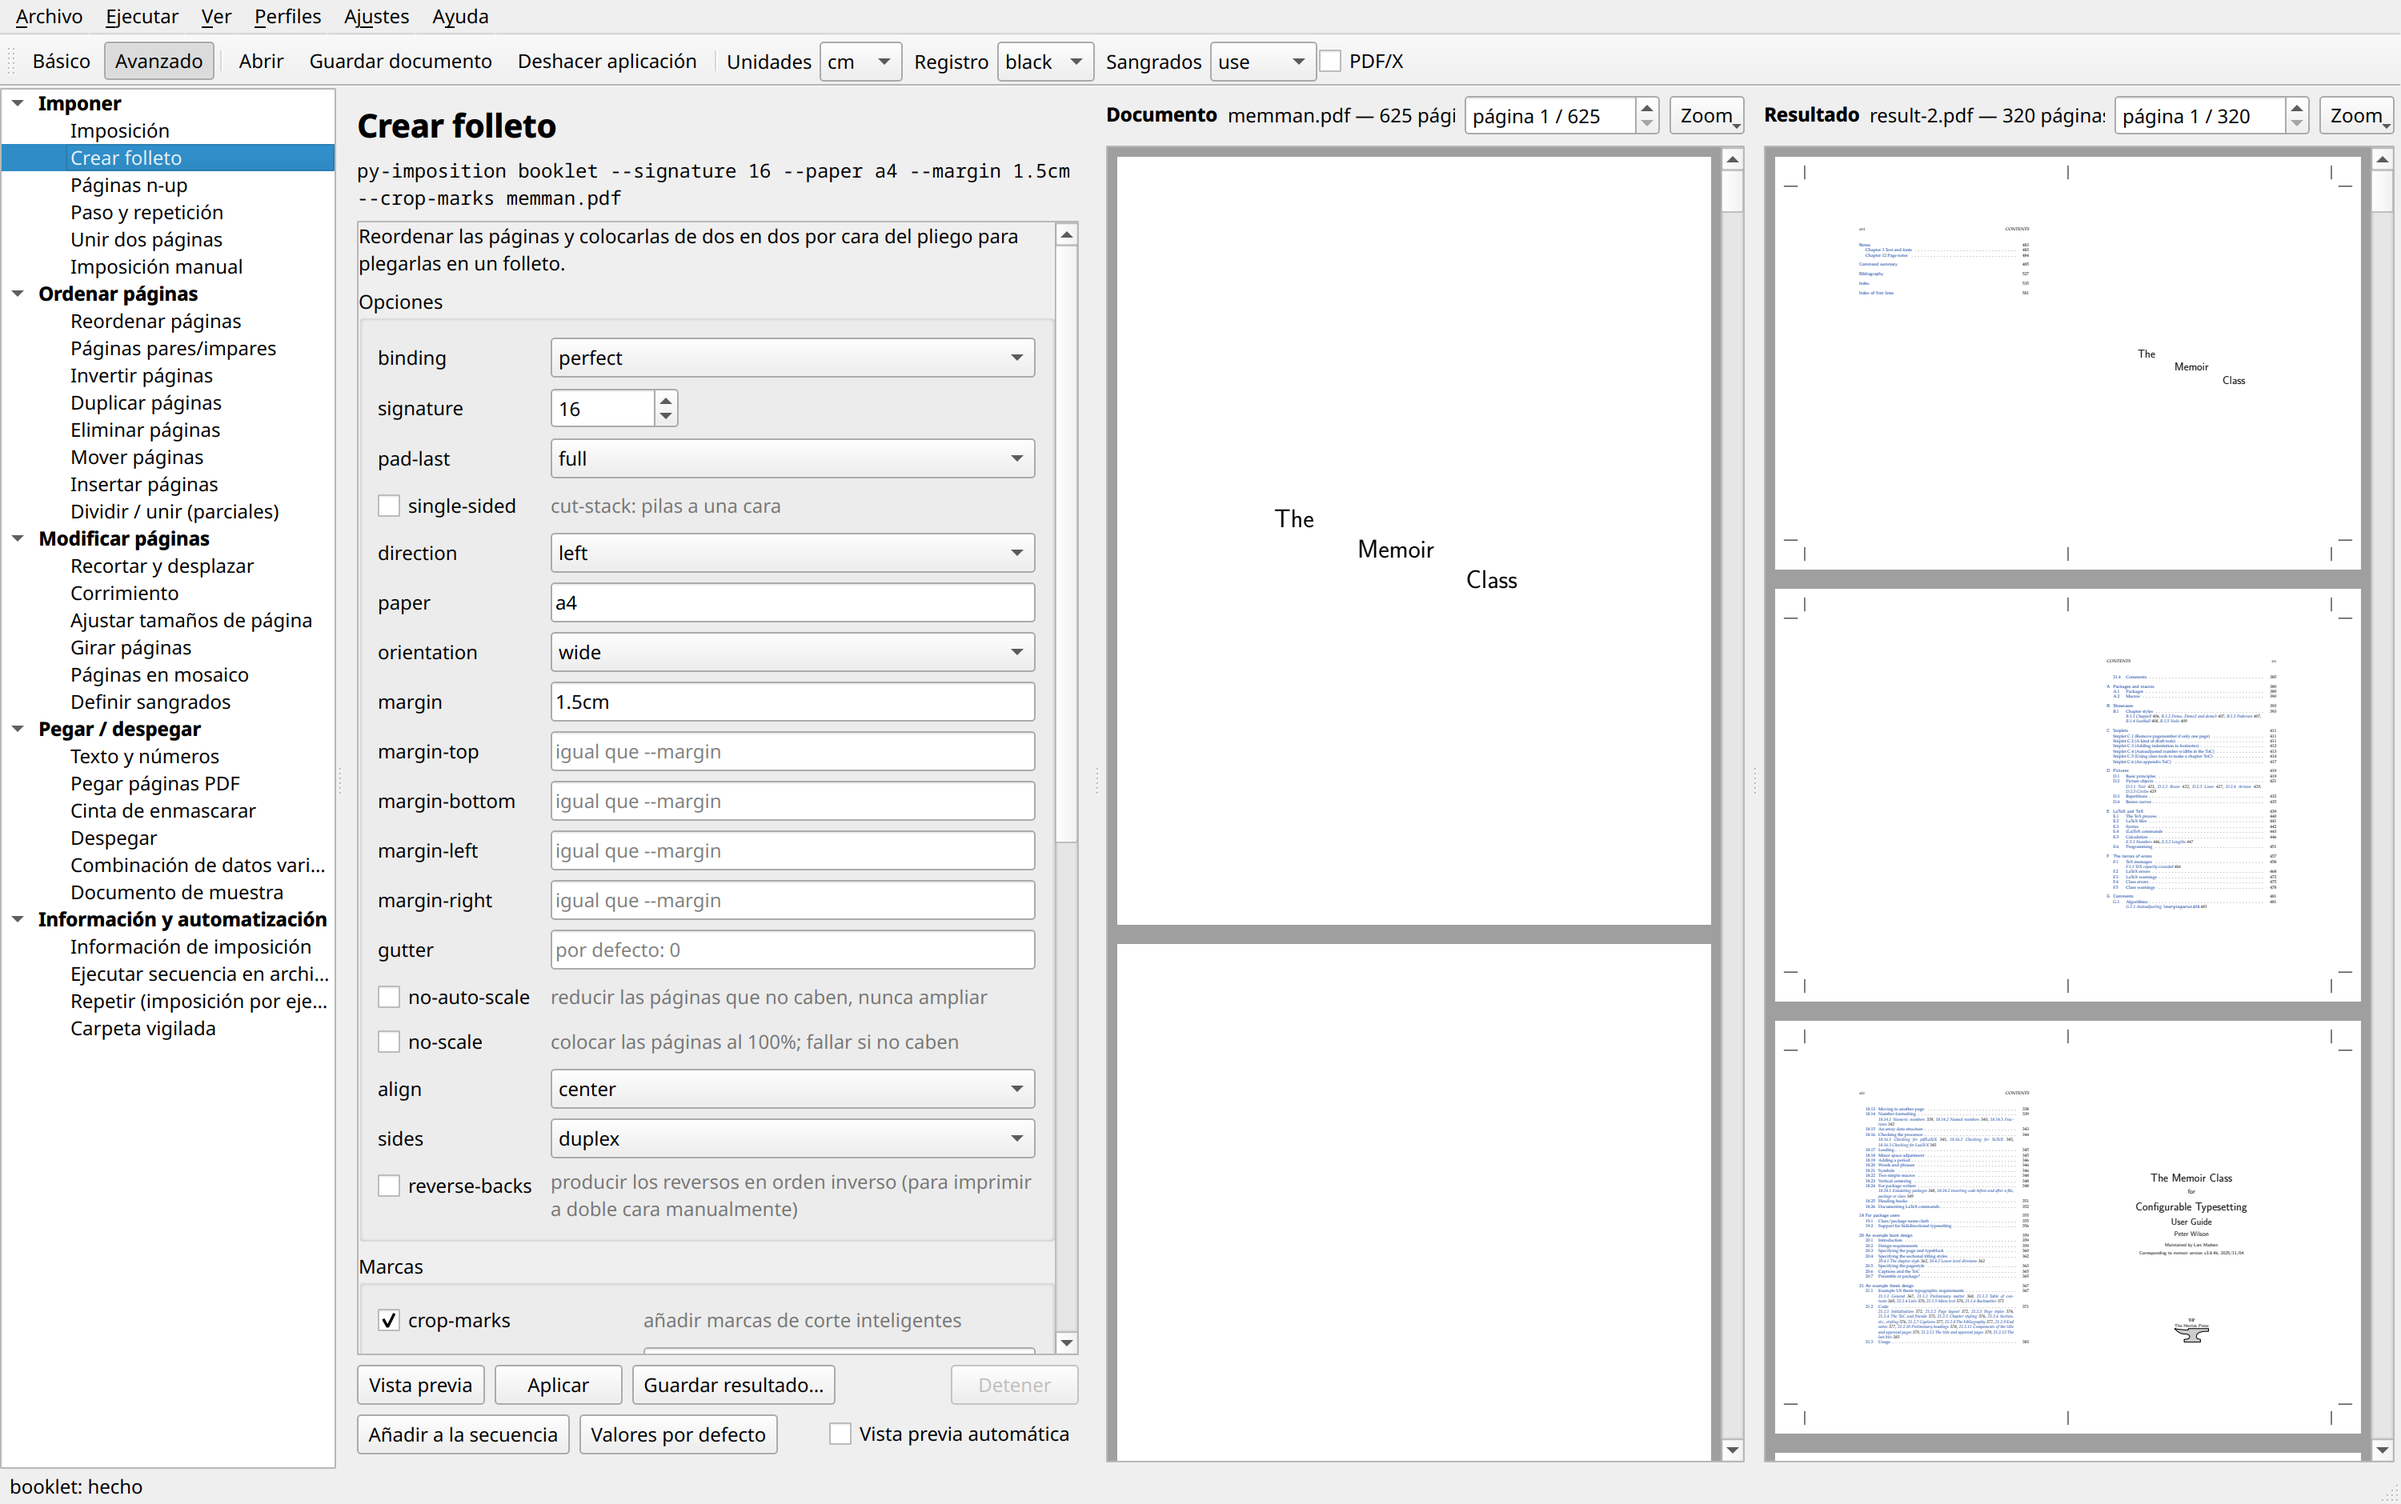
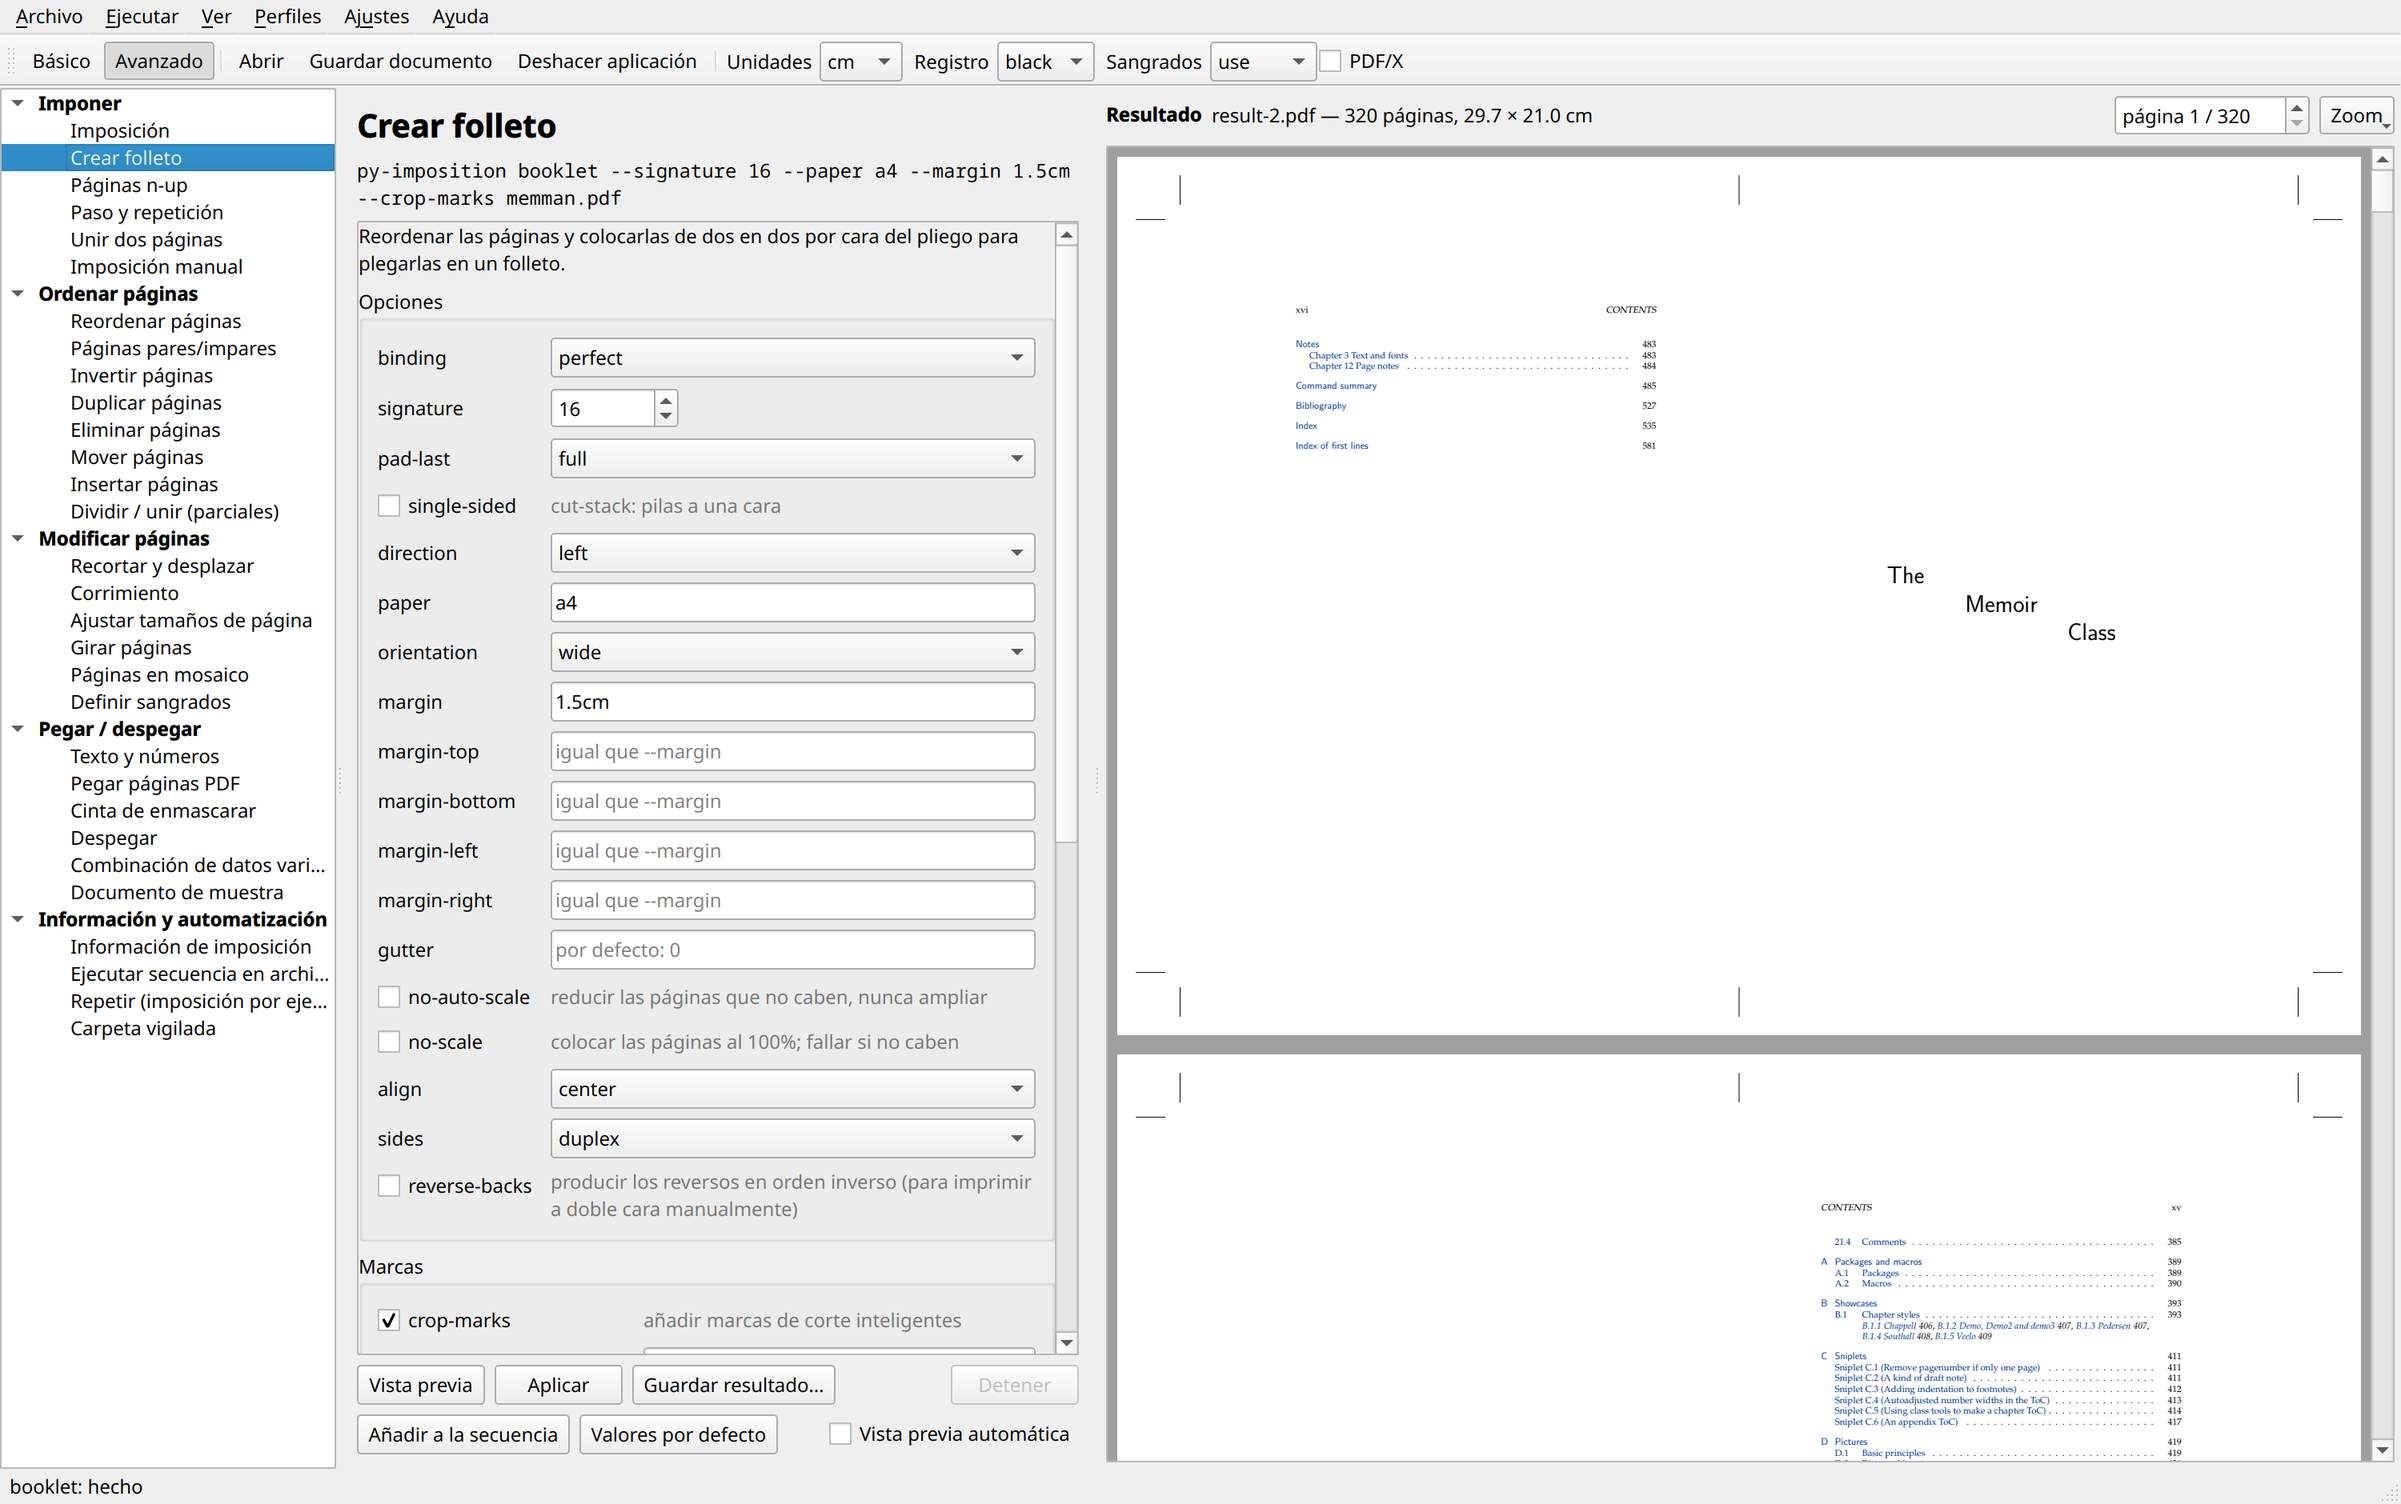
Make the original document's preview optional (v0.5.1)
View > Show the original document shows or hides the preview of the
current document beside the result. It is off by default, so the result
has the whole width, and the choice is kept in config.toml
(show_document), next to the language of the interface.

The GUI tests now use a configuration folder of their own, so they no
longer touch the user's config.toml. The README (both languages) and the
screenshots show the new default.

diff --git a/src/py_imposition/gui/window.py b/src/py_imposition/gui/window.py
@@ -561,6 +561,12 @@ class MainWindow(QMainWindow):
         m.addSeparator()
         m.addAction(QAction(tr("Copy command line"), self, triggered=self.copy_command_line))
         m = self.menuBar().addMenu(tr("&View"))
+        self.a_show_document = QAction(tr("Show the original document"), self, checkable=True)
+        self.a_show_document.setToolTip(tr("Show the document beside the result (kept in the configuration file)"))
+        self.a_show_document.setChecked(bool(config.get("show_document")))
+        self.a_show_document.toggled.connect(self.show_document)
+        m.addAction(self.a_show_document)
+        m.addSeparator()
         for d in self.docks:
             m.addAction(d.toggleViewAction())
         self.m_profiles = self.menuBar().addMenu(tr("&Profiles"))
@@ -612,6 +618,7 @@ class MainWindow(QMainWindow):
         last = self.settings.value("command", "booklet")
         self.select_command(last if last in COMMANDS else "booklet")
         self.set_mode(self.settings.value("mode", "basic"))
+        self.show_document(self.a_show_document.isChecked(), save=False)
 
     def closeEvent(self, event):
         self.runner.stop()
@@ -738,6 +745,15 @@ class MainWindow(QMainWindow):
         else:
             self.select_command(self._adv_command if self._adv_command in COMMANDS else "booklet")
             self._activate(self.current)
+
+    def show_document(self, on: bool, save: bool = True):
+        """Show or hide the preview of the original document, and keep the choice."""
+        self.src_pane.setVisible(on)
+        if save and bool(config.get("show_document")) != on:
+            try:
+                config.set("show_document", on)
+            except OSError as e:
+                self.status(tr("Could not keep the setting: {error}", error=e), error=True)
 
     def _profiles_menu(self):
         m = self.m_profiles

diff --git a/tests/test_gui.py b/tests/test_gui.py
@@ -32,6 +32,7 @@ def app():
 def window(app, tmp_path, monkeypatch):
     from PySide6.QtCore import QSettings
     monkeypatch.setenv("XDG_CONFIG_HOME", str(tmp_path / "config"))
+    monkeypatch.setenv("PY_IMPOSITION_CONFIG", str(tmp_path / "py-imposition-config"))
     QSettings.setPath(QSettings.Format.NativeFormat, QSettings.Scope.UserScope, str(tmp_path / "config"))
     from py_imposition.gui.window import MainWindow
     w = MainWindow()
@@ -281,3 +282,22 @@ def test_mode_survives_a_language_change(app, window, tmp_path, monkeypatch):
             w.runner.stop()
             w.close()
         winmod._WINDOWS.clear()
+
+
+def test_show_document_option(app, window, tmp_path):
+    from py_imposition import config
+    from py_imposition.gui.window import MainWindow
+    assert not window.a_show_document.isChecked()  # off by default
+    assert not window.src_pane.isVisibleTo(window)
+    window.a_show_document.setChecked(True)
+    assert window.src_pane.isVisibleTo(window)
+    assert config.get("show_document") is True
+    assert "show_document = true" in config.config_path().read_text()
+    other = MainWindow()  # (a new window reads the configuration file)
+    try:
+        assert other.a_show_document.isChecked() and other.src_pane.isVisibleTo(other)
+        other.a_show_document.setChecked(False)
+        assert config.get("show_document") is False
+    finally:
+        other.runner.stop()
+        other.close()

diff --git a/src/py_imposition/config.py b/src/py_imposition/config.py
@@ -6,11 +6,12 @@ It is a small TOML file, ``config.toml``, in the user's configuration folder:
 * macOS: ``~/Library/Application Support/py-imposition``;
 * Windows: ``%APPDATA%\\py-imposition``.
 
-``$PY_IMPOSITION_CONFIG`` names another folder. For now it holds one
-setting, the language of the interface:
+``$PY_IMPOSITION_CONFIG`` names another folder. It holds the language of
+the interface and whether the window shows the original document:
 
     [parameters]
     interface = "es"
+    show_document = false
 """
 
 from __future__ import annotations
@@ -21,7 +22,7 @@ import tomllib
 from pathlib import Path
 
 ENV = "PY_IMPOSITION_CONFIG"
-SETTINGS = {"interface": "en"}  # name: default
+SETTINGS = {"interface": "en", "show_document": False}  # name: default
 
 
 class ConfigError(Exception):

diff --git a/src/py_imposition/__init__.py b/src/py_imposition/__init__.py
@@ -15,7 +15,7 @@ from .runner import build_parser, make_context, record, save_result, strip_io
 from . import interface
 from .interface import ntr, tr
 
-__version__ = "0.5"
+__version__ = "0.5.1"
 
 __all__ = ["main", "COMMANDS", "Context", "ImpositionError", "__version__"]
 

diff --git a/README_es.md b/README_es.md
@@ -229,8 +229,12 @@ y resultados funcionan como en el modo avanzado.
   opciones que se excluyen entre sí se borran mutuamente. *Referencia*
   despliega los formatos de los archivos de disposición, de campos y de
   secuencia para `manual`, `merge-data` y `run`.
-- **Vistas previas:** el documento actual y el resultado se muestran uno
-  junto a otro. Con *Vista previa automática* activada, el resultado se
+- **Vistas previas:** el resultado se muestra a la derecha. *Ver ▸ Mostrar el
+  documento original* muestra además el documento actual a su lado; está
+  desactivado por defecto, y la elección se guarda en el archivo de
+  configuración (`show_document` en `config.toml`, véase
+  [El idioma de la interfaz](#el-idioma-de-la-interfaz)). Con *Vista previa
+  automática* activada, el resultado se
   actualiza poco después de cada cambio. Una lista desplegable pasa de un
   resultado a otro cuando una orden produce varios archivos (p. ej.,
   anversos y reversos por separado).
@@ -278,7 +282,8 @@ La elección se guarda en un pequeño archivo de configuración, `config.toml`,
 en `~/.config/py-imposition/` (Linux), `~/Library/Application
 Support/py-imposition/` (macOS) o `%APPDATA%\py-imposition\` (Windows);
 `$PY_IMPOSITION_CONFIG` indica otra carpeta. Tanto la línea de órdenes como
-la ventana lo leen.
+la ventana lo leen. La ventana guarda ahí también si muestra el documento
+original (`show_document = true` o `false`).
 
 Las traducciones están en `src/py_imposition/locale/es.xml`, con un `<text>`
 para cada texto del programa, que da el inglés (`<en>`) y su traducción

diff --git a/README.md b/README.md
@@ -218,7 +218,10 @@ advanced mode.
   it with *Run ▸ Copy command line*. Options that exclude each other clear
   each other. *Reference* expands the layout/fields/sequence file formats
   for `manual`, `merge-data` and `run`.
-- **Previews:** the current document and the result are shown side by side.
+- **Previews:** the result is shown on the right. *View ▸ Show the original
+  document* also shows the current document beside it; it is off by default,
+  and the choice is kept in the configuration file (`show_document` in
+  `config.toml`, see [The language of the interface](#the-language-of-the-interface)).
   With *Auto preview* on, the result updates shortly after each change. A
   drop-down switches between results when a command produces several files
   (e.g. separate fronts and backs).
@@ -261,7 +264,8 @@ The choice is kept in a small configuration file, `config.toml`, in
 `~/.config/py-imposition/` (Linux), `~/Library/Application
 Support/py-imposition/` (macOS) or `%APPDATA%\py-imposition\` (Windows);
 `$PY_IMPOSITION_CONFIG` names another folder. Both the command line and the
-window read it.
+window read it. The window also keeps there whether it shows the original
+document (`show_document = true` or `false`).
 
 The translations are in `src/py_imposition/locale/es.xml`, with one `<text>`
 for each text of the program, giving the English (`<en>`) and its
